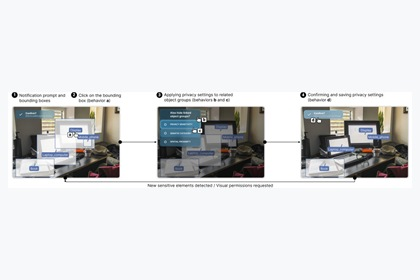
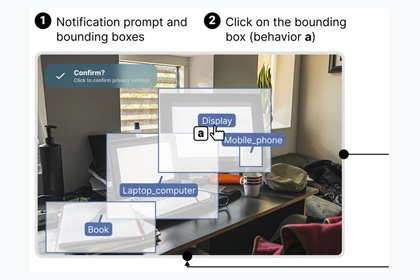
Update p04 publication image and chair labels

diff --git a/index.html b/index.html
@@ -53,8 +53,8 @@
     <link rel="preconnect" href="https://fonts.googleapis.com" />
     <link rel="preconnect" href="https://fonts.gstatic.com" crossorigin />
     <link href="https://fonts.googleapis.com/css2?family=Great+Vibes&display=swap" rel="stylesheet" />
-    <link rel="stylesheet" href="site.css?v=pub-tabs-20260526-19" />
-    <script src="publications.js?v=pub-tabs-20260526-19" defer></script>
+    <link rel="stylesheet" href="site.css?v=pub-tabs-20260526-20" />
+    <script src="publications.js?v=pub-tabs-20260526-20" defer></script>
   </head>
   <body>
     <div class="container">
@@ -196,14 +196,14 @@
             <div class="service-group">
               <h5>Organizing Committee</h5>
               <ul class="service-list">
-                <li>Interactive Demo Co-chair of CHI 2026</li>
-                <li>LBW Chair of Chinese CHI 2025 / ICHEC 2025</li>
-                <li>Publicity Co-chair of IEEE ISMAR 2025</li>
-                <li>Paper Chair of Chinese CHI 2024</li>
-                <li>Sustainability Co-chair of CHI 2025</li>
+                <li>Interactive Demo Co-Chair of CHI 2026</li>
+                <li>LBW Co-Chair of Chinese CHI 2025 / ICHEC 2025</li>
+                <li>Publicity Co-Chair of IEEE ISMAR 2025</li>
+                <li>Paper Co-Chair of Chinese CHI 2024</li>
+                <li>Sustainability Co-Chair of CHI 2025</li>
                 <li>Emerging Technologies Committee Member of SIGGRAPH Asia 2024</li>
-                <li>Paper Chair of Chinese CHI 2024</li>
-                <li>Publicity Chair of Chinese CHI 2022</li>
+                <li>Paper Co-Chair of Chinese CHI 2024</li>
+                <li>Publicity Co-Chair of Chinese CHI 2022</li>
                 <li>Electronic Theater Organizing Committee Member of China Graph 2022</li>
               </ul>
             </div>

diff --git a/publications.js b/publications.js
@@ -5,7 +5,7 @@ const placeholder = {
   heritage: "assets/pub-placeholder-heritage.svg"
 };
 
-const publicationAssetVersion = "thumbs-20260526-6";
+const publicationAssetVersion = "thumbs-20260526-7";
 const selectedPublicationIds = ["p35", "p49", "p32", "p27", "p29"];
 const tagColors = [
   ["HCI", "#E8F3FF", "#23527C"],
